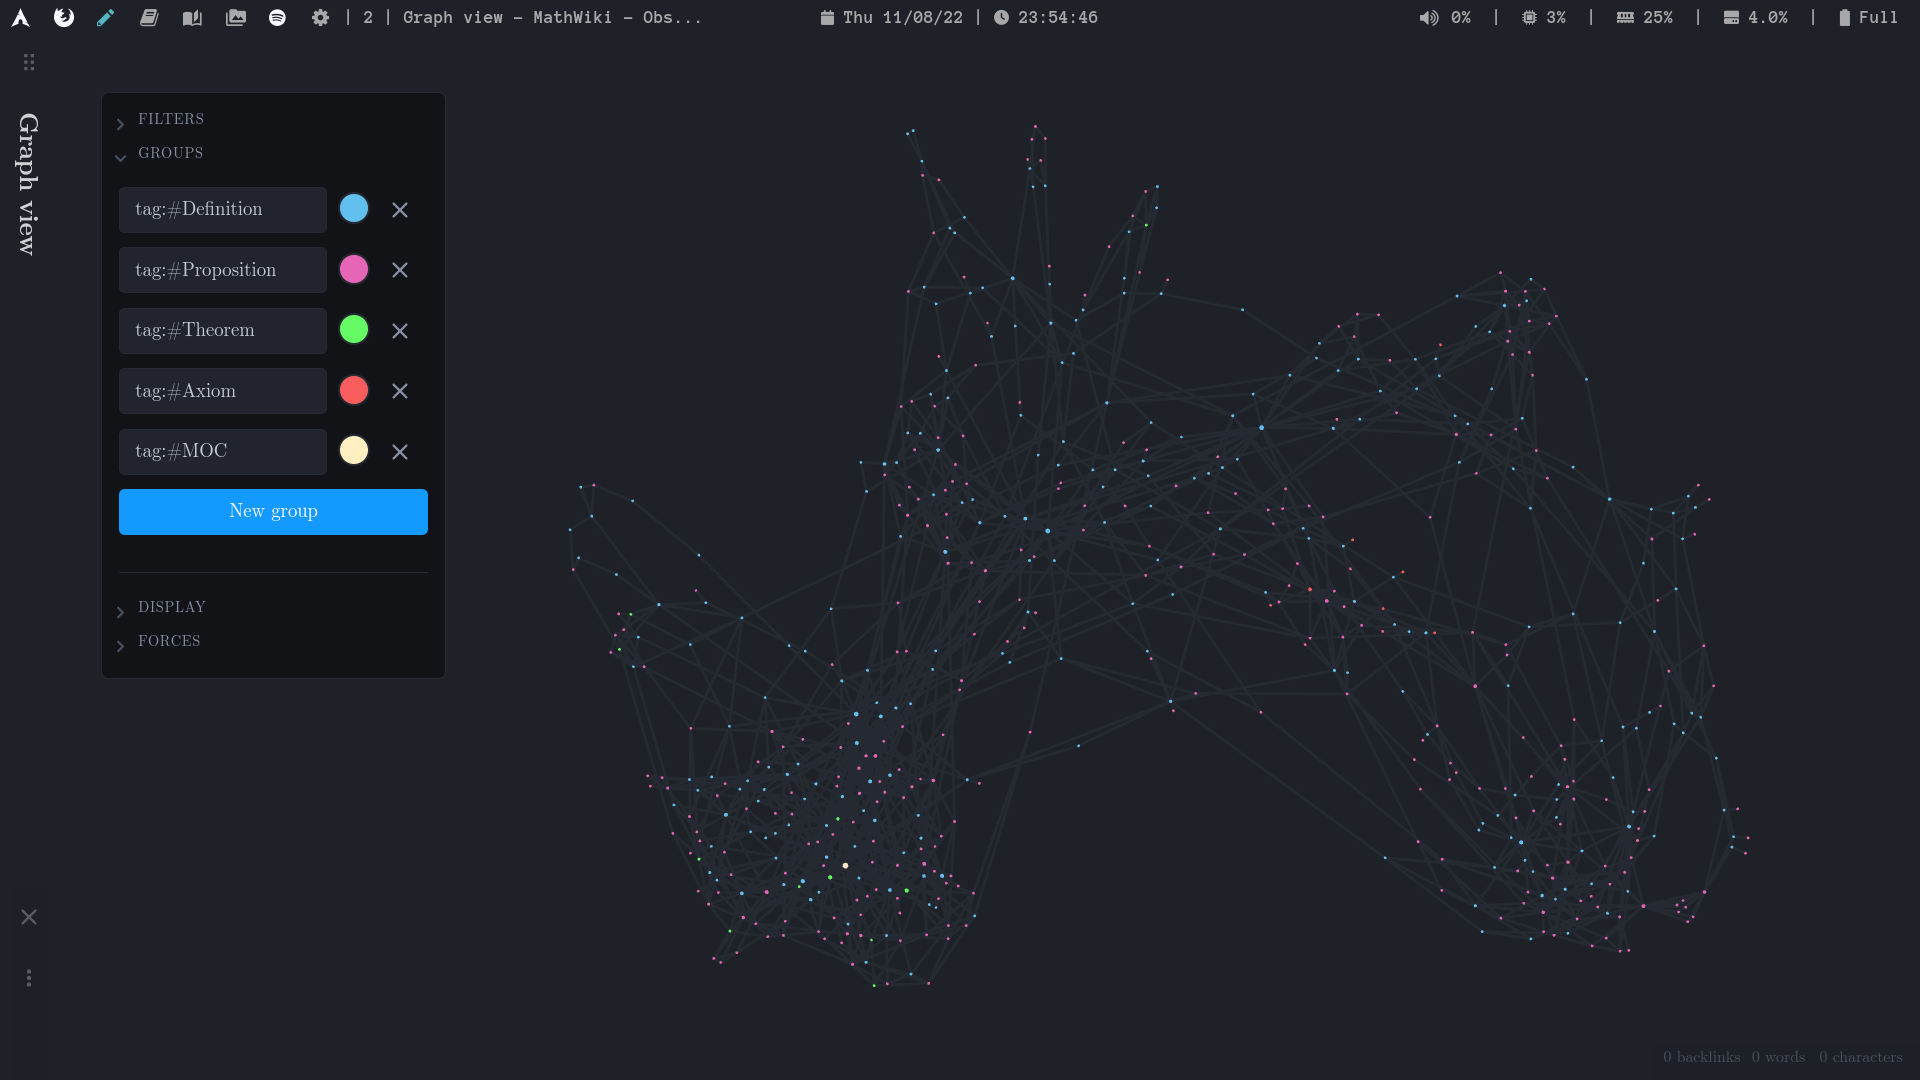
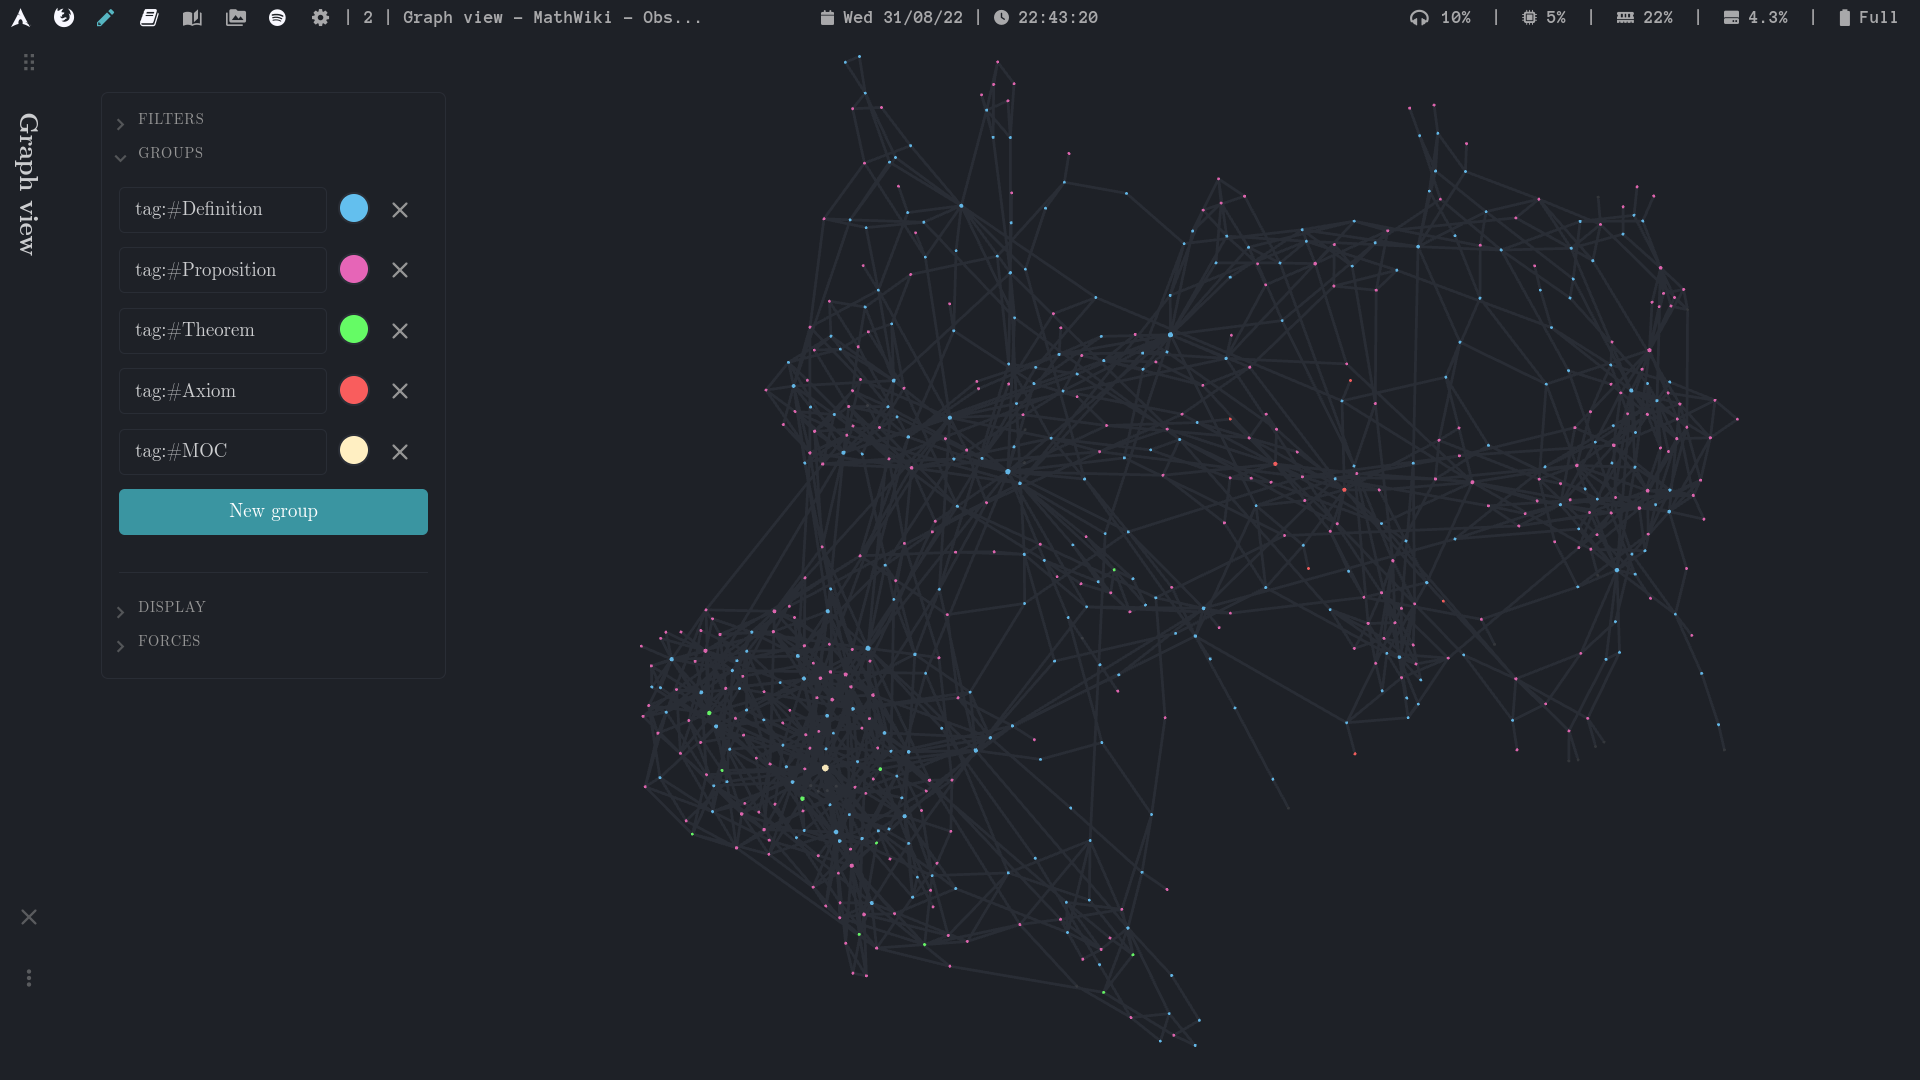
Updated `graph_view.png`

diff --git a/.obsidian/snippets/fonts.css b/.obsidian/snippets/fonts.css
@@ -18,6 +18,10 @@ body {
     font-family: 'CMU Serif' !important
 }
 
+.mod-cta {
+    font-family: 'CMU Serif' !important
+}
+
 input, textarea {
     font-family: 'CMU Serif' !important
 }
